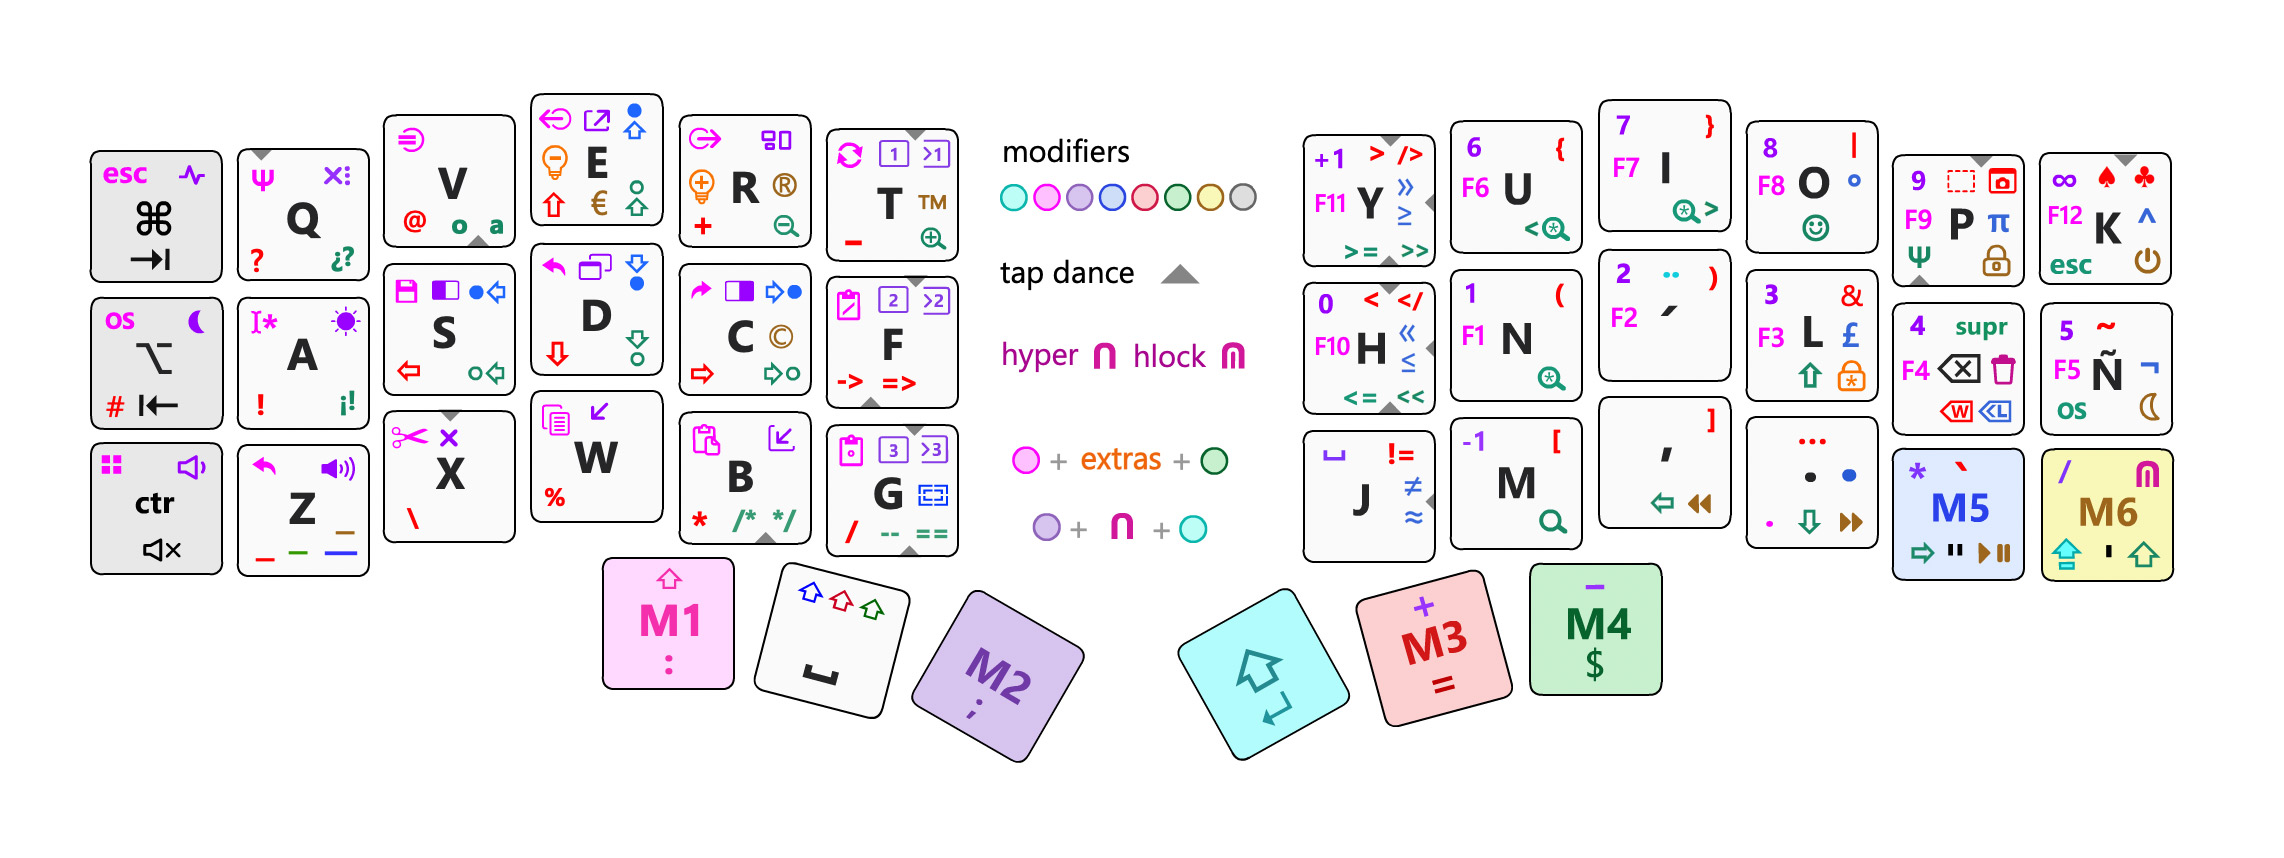
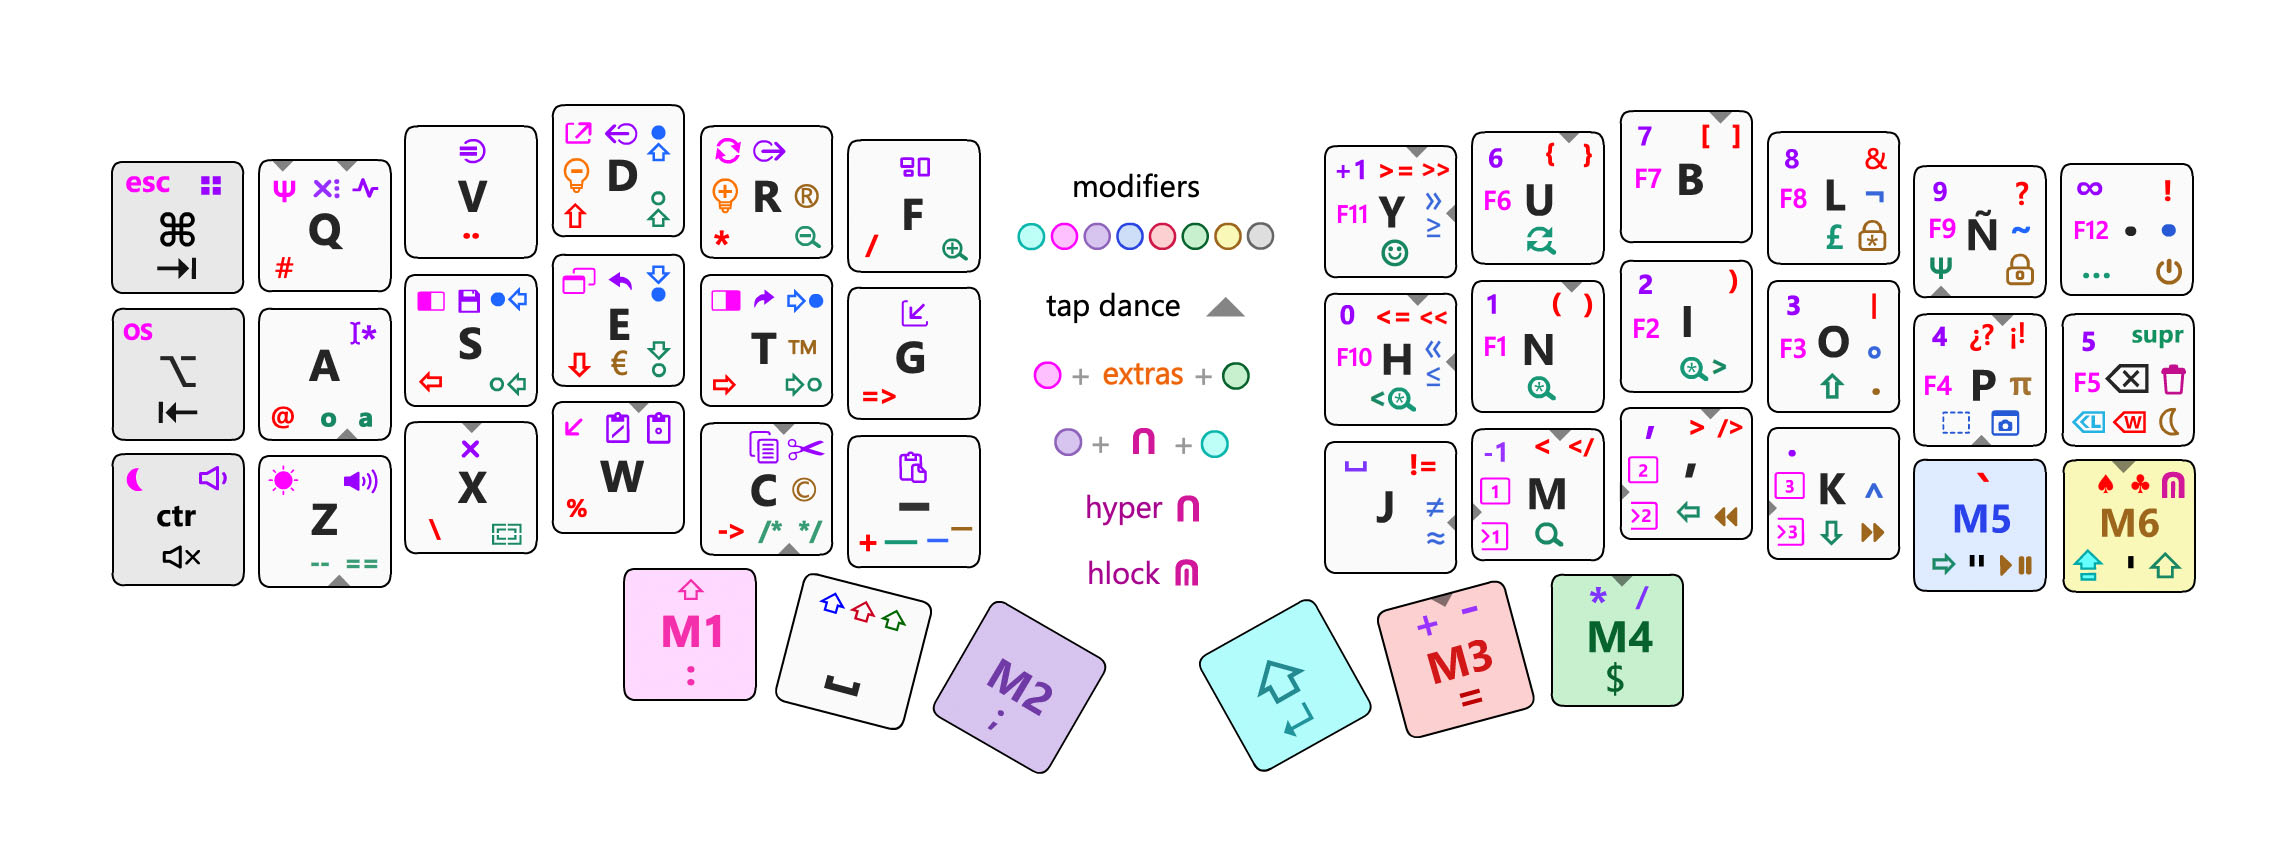
Still not stable, but improved. some keys such as delete line doesnt work

Changed region(s): [[0.0311, 0.1212, 0.9637, 0.9091]]

diff --git a/source/keydefs.c b/source/keydefs.c
@@ -127,9 +127,9 @@ static const uint16_t sequenceKeys[][SEQUENCE_MAX_LENGTH] PROGMEM = {
 	{ ES_MINS, ES_RABK, NULL_KEY }, 
 	//FIELD
 	{ ES_EQL, ES_RABK, NULL_KEY }, 
-	//QUESTION
+	//QUESTN
 	{ ES_IQUE, ES_QUES, KC_LEFT },
-	//EXCLAMATION
+	//EXCLAM
 	{ ES_IEXL, ES_EXLM, KC_LEFT },
 	//CMNT_OP
 	{ ES_SLSH, ES_ASTR, NULL_KEY }, 
@@ -212,28 +212,20 @@ static const uint16_t asciiKeys[][NUMBER_OF_OS] PROGMEM = {
 
 //returns the extendend shortcut keycode according to the current OS
 static uint16_t getOSKey(uint16_t keyName ){
-	//OLD implementation (without PROGMEM)
-	/*
-	uint16_t *p = osKeys[ keyName - OS_INDEX -1 ];
-	return p[ os ]; 
-	*/
-	uintptr_t keyPtr = (uintptr_t) &( osKeys[ keyName - OS_INDEX -1 ] );
-	return pgm_read_word( keyPtr + os);
+	return pgm_read_word( &( osKeys[ keyName - OS_INDEX -1 ][ os ] ) );
 }; 
 
 //Returns the uint16_t keycode or the ASCII index according to the current OS
 static uint16_t getAsciiKey(uint16_t keyName ){
-	uintptr_t keyPtr = (uintptr_t) &( asciiKeys[ keyName - ASCII_INDEX -1 ] );
-	return pgm_read_word( keyPtr + os);
+	return pgm_read_word( &( asciiKeys[ keyName - ASCII_INDEX -1 ][ os ] ));
 };
 
 //taps a sequence of keys. Useful for common key sequences such as <= -> and so on
 static void tap_sequence(uint16_t seqName){
 	char overflow = SEQUENCE_MAX_LENGTH;
-	uintptr_t keyPtr = (uintptr_t) &( sequenceKeys[ seqName - SEQUENCE_INDEX -1 ] );
 	uint16_t currentKey;
 	for(int i=0; i<SEQUENCE_MAX_LENGTH && overflow>0; i++, overflow--){
-		currentKey = pgm_read_word( keyPtr + i);
+		currentKey = pgm_read_word( &( sequenceKeys[ seqName - SEQUENCE_INDEX -1 ][ i ] )); 
 		if(currentKey == NULL_KEY) break;
 		tap_code16( currentKey ); 
 	}	

diff --git a/source/keymap.c b/source/keymap.c
@@ -107,7 +107,7 @@ const uint16_t PROGMEM keymaps[][MATRIX_ROWS][MATRIX_COLS] = {
   //,-----------------------------------------------------------.                      ,-----------------------------------------------------------.
       CMD,     ES_Q,     ES_V,     ES_D,     ES_R,     ES_F,                            ES_Y,      TD(AC_U), ES_B,     ES_L,     ES_NTIL,  ES_DOT,  \
   //|---------+---------+---------+---------+---------+---------|                      |----------+---------+---------+---------+---------+---------|
-      ALT,     TD(AC_A), ES_S,     TD(AC_E), ES_T,     ES_G,                            ES_H,      ES_N,     TD(AC_I), TD(AC_O), ES_P,     DEL,     \
+      ALT,     TD(AC_A), TD(MRK),     TD(AC_E), ES_T,     ES_G,                            ES_H,      ES_N,     TD(AC_I), TD(AC_O), ES_P,     DEL,     \
   //|---------+---------+---------+---------+---------+---------|                      |----------+---------+---------+---------+---------+---------|
       CTR ,    ES_Z,     ES_X,     ES_W,     ES_C,     ES_MINS,                         ES_J,      ES_M,     ES_COMM,  ES_K,     M5,       M6,      \
   //|---------+---------+---------+---------+---------+---------+---------|  |---------+----------+---------+---------+---------+---------+---------|

diff --git a/source/rgb.c b/source/rgb.c
@@ -291,7 +291,7 @@
 				);
 			}
 			indicator = pgm_read_byte( ledAddress + 4 ); //next
-		}
+		}	
 	}
 
 	//this function is used to draw all active indicators
